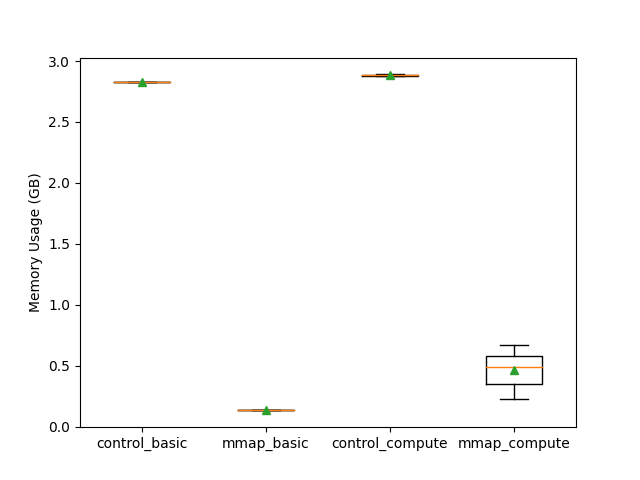
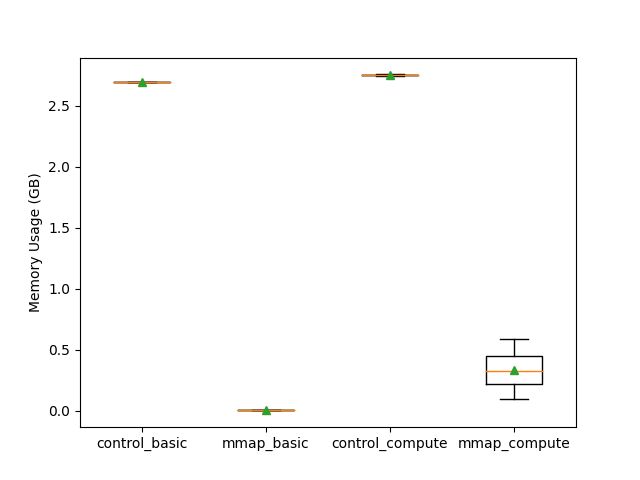
fix some timing/memory measurements
$ python3 colbert/tests/mmap_test.py --target_dir=./experiments/mmap_test --test_iter=1

Starting MMap stress test

Starting random file read control test from /lfs/1/udingank/msmarco.nbits-2.latest
Starting iteration 0
copying cycle 0

Starting random file read mmap test from /lfs/1/udingank/msmarco.nbits-2.latest
Starting iteration 0
copying cycle 0

Saving Results
--------------
Results saved to ./experiments/mmap_test/results-hdd.png

control_basic: 2.69799 GB
mmap_basic: 0.00351 GB
control_compute: 2.75373 GB
mmap_compute: 0.32205 GB

Timing Summary
--------------

  Timing   |  Control  |  MMap
  -----------|-----------|--------------
   read time | 1.69907  |  0.00718
    copy time | 0.05781  |  0.04741
      compute  | 0.00036  |  0.00041
         total   | 0.90085  |  0.75063

         Starting random file read control test from /lfs/0/udingank/msmarco.nbits-2.latest
         Starting iteration 0
         copying cycle 0

         Starting random file read mmap test from /lfs/0/udingank/msmarco.nbits-2.latest
         Starting iteration 0
         copying cycle 0

         Saving Results
         --------------
         Results saved to ./experiments/mmap_test/results-ssd.png

         control_basic: 2.69785 GB
         mmap_basic: 0.00334 GB
         control_compute: 2.75199 GB
         mmap_compute: 0.33483 GB

         Timing Summary
         --------------

           Timing   |  Control  |  MMap
           -----------|-----------|--------------
[…]

diff --git a/colbert/tests/mmap_test.py b/colbert/tests/mmap_test.py
@@ -60,9 +60,8 @@ def read_residuals(mmap, filepath, proc, q):
             mem_buf.append(torch.flatten(temp))
 
     mem = proc.memory_info().rss/B_PER_GB
-    q.put(mem)
 
-    return mem_buf
+    return mem_buf, mem
 
 def read_into_buffer(mmap, filepath, q):
     proc = psutil.Process(os.getpid())
@@ -72,7 +71,9 @@ def read_into_buffer(mmap, filepath, q):
 
     # read from residual files into mem_buf
     start_time = time.time()
-    mem_buf = read_residuals(mmap, filepath, proc, q)
+    base_mem = proc.memory_info().rss/B_PER_GB
+    mem_buf, mem = read_residuals(mmap, filepath, proc, q)
+    q.put(mem - base_mem)
 
     fetch_time = time.time()
 
@@ -97,6 +98,8 @@ def read_into_buffer(mmap, filepath, q):
         del temp
         gc.collect()
 
+        mem = proc.memory_info().rss/B_PER_GB
+
         ts1 = time.time()
         computation = torch.sum(new_buf)
         ts2 = time.time()
@@ -104,8 +107,7 @@ def read_into_buffer(mmap, filepath, q):
         copy_avg += ts1 - rand_time_start
         calc_avg += ts2 - ts1
 
-        mem = proc.memory_info().rss/B_PER_GB
-        results_buf.append(mem)
+        results_buf.append(mem - base_mem)
 
         del new_buf
         gc.collect()
@@ -183,7 +185,7 @@ def print_results(target_dir, filepath):
     print("Results saved to {}\n".format(result_filename))
 
     for i, l in enumerate(results):
-        print("{:10s}: {:.2f} GB".format(labels[i], sum(l)/len(l)))
+        print("{:10s}: {:.5f} GB".format(labels[i], sum(l)/len(l)))
 
 # print the timing benchmarks
 def print_timing(test_iter):
@@ -209,12 +211,12 @@ def print_timing(test_iter):
     for k in mmap:
         mmap[k] /= test_iter
 
-    print("  Timing   |  Control  |  MMap  ")
+    print("  Timing   |  Control  |  MMap")
     print("-----------|-----------|--------------")
-    print(" read time | {:.5f}  |  {:.5f}     ".format(control['read_time'], mmap['read_time']))
-    print(" copy time | {:.5f}  |  {:.5f}     ".format(control['average_copy_time'], mmap['average_copy_time']))
-    print("  compute  | {:.5f}  |  {:.5f}     ".format(control['average_calc_time'], mmap['average_calc_time']))
-    print("   total   | {:.5f}  |  {:.5f}     ".format(control['total_time'], mmap['total_time']))
+    print(" read time | {:.5f}  |  {:.5f}".format(control['read_time'], mmap['read_time']))
+    print(" copy time | {:.5f}  |  {:.5f}".format(control['average_copy_time'], mmap['average_copy_time']))
+    print("  compute  | {:.5f}  |  {:.5f}".format(control['average_calc_time'], mmap['average_calc_time']))
+    print("   total   | {:.5f}  |  {:.5f}".format(control['total_time'], mmap['total_time']))
 
 
 def main(args):
